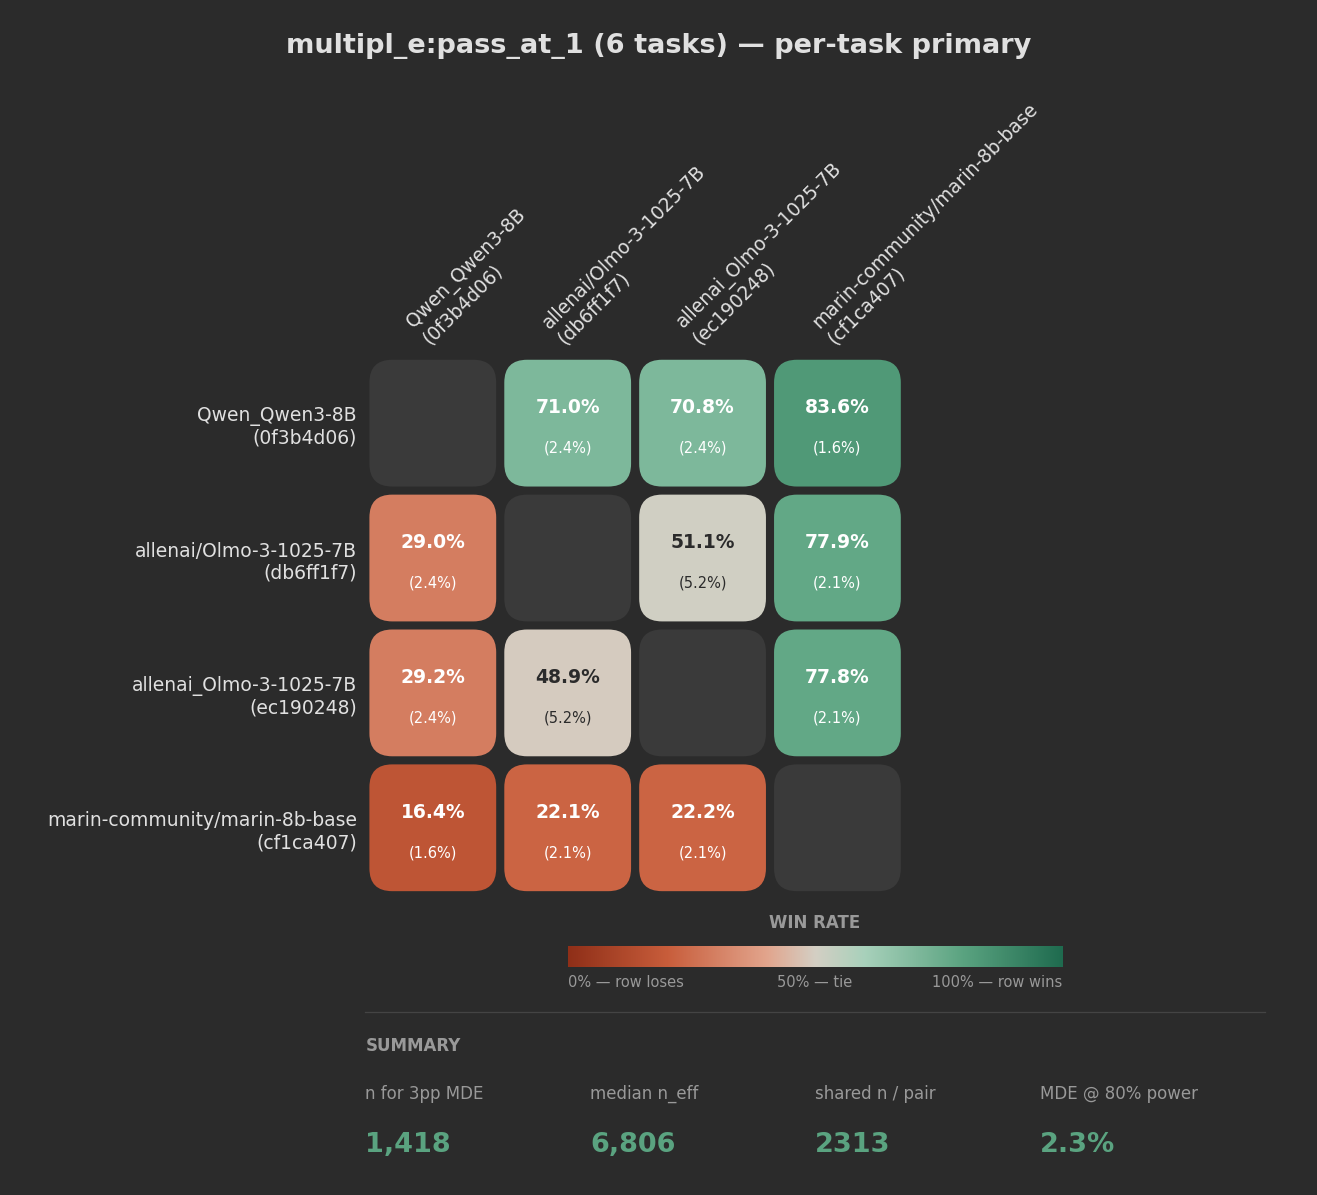
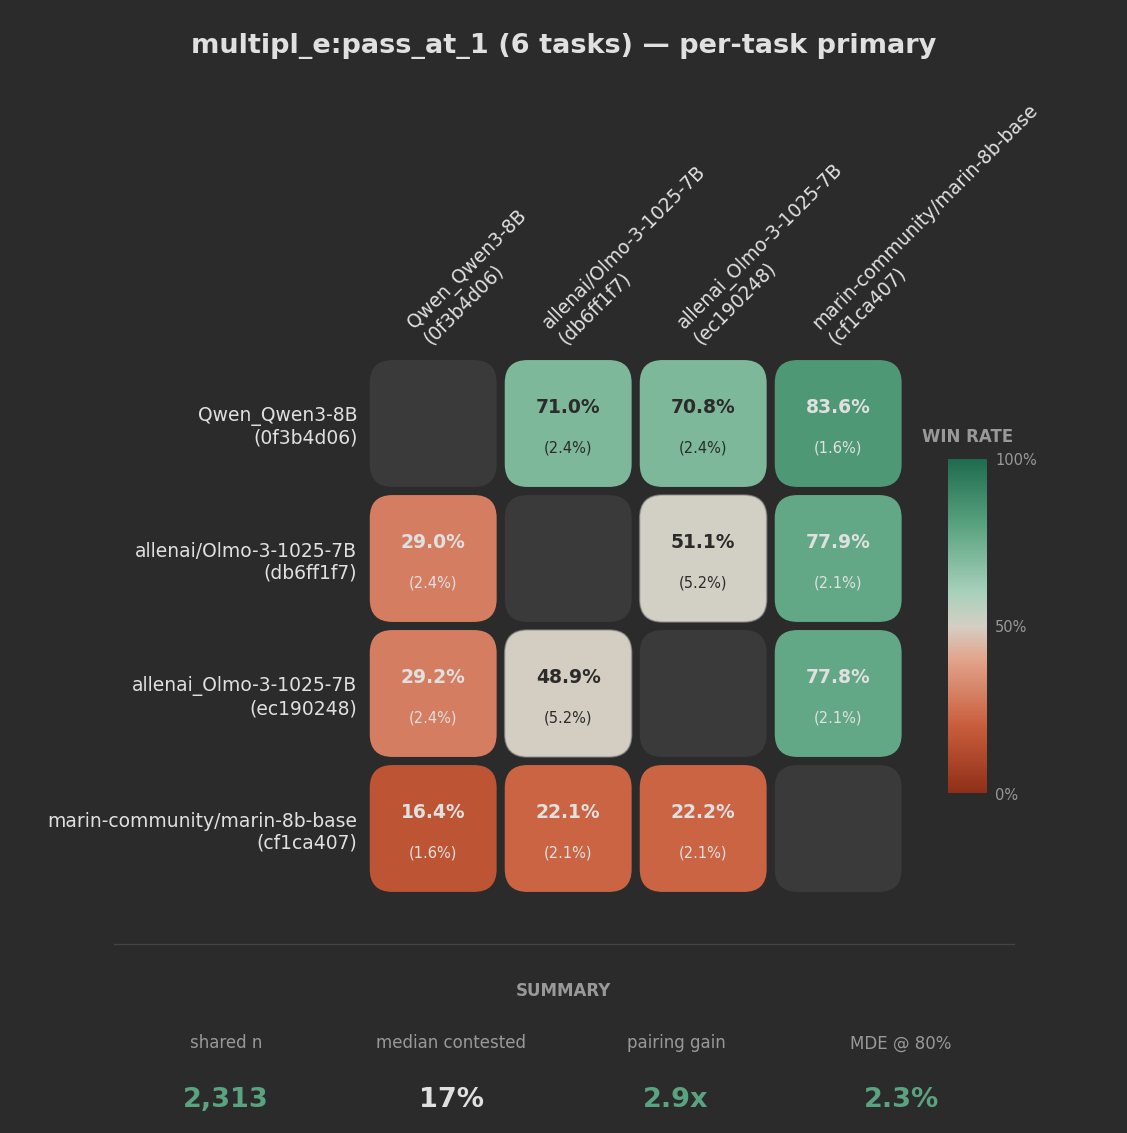
Rework summary stats and examples

diff --git a/src/olmo_eval/analysis/pairwise_plot.py b/src/olmo_eval/analysis/pairwise_plot.py
@@ -10,6 +10,7 @@ import numpy as np
 from olmo_eval.analysis.pairwise import PairwiseResult, get_se, get_win_rate
 
 if TYPE_CHECKING:
+    from matplotlib.colors import ColorType
     from matplotlib.figure import Figure
 
 _BG = "#2b2b2b"
@@ -34,7 +35,7 @@ _CMAP_STOPS: list[tuple[float, str]] = [
     (1.00, "#1f6b4f"),
 ]
 
-_FOOTER_HEIGHT = 1.55
+_FOOTER_HEIGHT = 1.58
 _RIGHT_PAD = 0.35
 _LEFT_PAD = 0.35
 _TITLE_PAD = 0.55
@@ -46,6 +47,9 @@ _LEGEND_LABEL_GAP = 0.08
 _LEGEND_LABEL_WIDTH = 0.45
 _LEGEND_HEIGHT_FRACTION = 0.62
 _LEGEND_MIN_HEIGHT = 1.20
+_NONSIG_BLEND = 0.55
+_NONSIG_BORDER_WIDTH = 0.8
+_SIGNIFICANCE_Z = 2.0
 
 
 def build_win_rate_matrix(result: PairwiseResult) -> np.ndarray:
@@ -168,6 +172,25 @@ def plot_pairwise_matrix(
         inset = gap / 2
         side = 1.0 - gap
         rounding = side * 0.18
+        neutral_rgba = mcolors.to_rgba(cmap(norm(0.5)))
+        nonsig_edge_rgba = mcolors.to_rgba(_TEXT_DIM, alpha=0.55)
+
+        def _is_nonsignificant(win_rate: float, se: float) -> bool:
+            return abs(win_rate - 0.5) <= _SIGNIFICANCE_Z * se
+
+        def _blend_with_neutral(color: ColorType) -> tuple[float, float, float, float]:
+            r, g, b, a = mcolors.to_rgba(color)
+            return (
+                (1.0 - _NONSIG_BLEND) * r + _NONSIG_BLEND * neutral_rgba[0],
+                (1.0 - _NONSIG_BLEND) * g + _NONSIG_BLEND * neutral_rgba[1],
+                (1.0 - _NONSIG_BLEND) * b + _NONSIG_BLEND * neutral_rgba[2],
+                (1.0 - _NONSIG_BLEND) * a + _NONSIG_BLEND * neutral_rgba[3],
+            )
+
+        def _text_color_for_fill(fill_color: ColorType) -> str:
+            r, g, b = mcolors.to_rgb(fill_color)
+            luminance = 0.2126 * r + 0.7152 * g + 0.0722 * b
+            return _BG if luminance >= 0.66 else _TEXT_LIGHT
 
         for i in range(n):
             for j in range(n):
@@ -175,8 +198,18 @@ def plot_pairwise_matrix(
                 if i == j or np.isnan(val):
                     color = _DIAGONAL
                     annotate = False
+                    se_val = np.nan
+                    edgecolor = "none"
+                    linewidth = 0.0
                 else:
+                    se_val = se_matrix[i, j]
                     color = cmap(norm(val))
+                    edgecolor = "none"
+                    linewidth = 0.0
+                    if not np.isnan(se_val) and _is_nonsignificant(val, se_val):
+                        color = _blend_with_neutral(color)
+                        edgecolor = nonsig_edge_rgba
+                        linewidth = _NONSIG_BORDER_WIDTH
                     annotate = True
 
                 ax.add_patch(
@@ -186,15 +219,14 @@ def plot_pairwise_matrix(
                         side,
                         boxstyle=f"round,pad=0,rounding_size={rounding}",
                         facecolor=color,
-                        edgecolor="none",
-                        linewidth=0,
+                        edgecolor=edgecolor,
+                        linewidth=linewidth,
                         zorder=2,
                     )
                 )
 
                 if annotate:
-                    text_color = "#ffffff" if abs(val - 0.5) > 0.14 else _BG
-                    se_val = se_matrix[i, j]
+                    text_color = _text_color_for_fill(color)
                     se_font = max(7, int(annot_font * 0.80))
                     ax.text(
                         j + 0.5,
@@ -250,10 +282,10 @@ def plot_pairwise_matrix(
         def _y(inches_from_bottom: float) -> float:
             return inches_from_bottom / fig_h
 
-        upper_divider_in = 1.24
-        summary_label_in = 0.94
+        upper_divider_in = 1.26
+        summary_label_in = 0.95
         stat_head_in = 0.60
-        stat_value_in = 0.24
+        stat_value_in = 0.22
 
         legend_height_in = min(
             max(heatmap_in * _LEGEND_HEIGHT_FRACTION, _LEGEND_MIN_HEIGHT),
@@ -304,10 +336,7 @@ def plot_pairwise_matrix(
             va="center",
         )
 
-        from olmo_eval.analysis.eval_power import (
-            minimum_detectable_effect,
-            required_sample_size,
-        )
+        from olmo_eval.analysis.eval_power import minimum_detectable_effect
 
         # Use the median pair variance as a single matrix-wide summary term.
         pair_vars = sorted(p.var_paired_diff for p in result.pairs)
@@ -322,14 +351,6 @@ def plot_pairwise_matrix(
             mde = None
             mde_str = "—"
 
-        n_for_3pp: int | None
-        if median_var > 0:
-            n_for_3pp = required_sample_size(mde=0.03, omega2=median_var)
-            n_for_3pp_str = f"{n_for_3pp:,}"
-        else:
-            n_for_3pp = None
-            n_for_3pp_str = "—"
-
         # n_eff = n_shared * (sigma_A^2 + sigma_B^2) / Var(d)
         n_eff_values: list[int] = []
         for p in result.pairs:
@@ -337,7 +358,21 @@ def plot_pairwise_matrix(
                 n_eff_values.append(round(shared_n * p.var_marginal_sum / p.var_paired_diff))
         n_eff_values.sort()
         median_n_eff: int | None = n_eff_values[len(n_eff_values) // 2] if n_eff_values else None
-        median_n_eff_str = f"{median_n_eff:,}" if median_n_eff is not None else "—"
+        pairing_gain: float | None = (
+            median_n_eff / shared_n if median_n_eff is not None and shared_n > 0 else None
+        )
+        pairing_gain_str = f"{pairing_gain:.1f}x" if pairing_gain is not None else "—"
+
+        contested_values = sorted(p.wins_a + p.wins_b for p in result.pairs)
+        median_contested: int | None = (
+            contested_values[len(contested_values) // 2] if contested_values else None
+        )
+        median_contested_rate: float | None = (
+            median_contested / shared_n if median_contested is not None and shared_n > 0 else None
+        )
+        median_contested_str = (
+            f"{median_contested_rate:.0%}" if median_contested_rate is not None else "—"
+        )
 
         def _tier_mde(v: float | None) -> str:
             if v is None:
@@ -355,20 +390,9 @@ def plot_pairwise_matrix(
                 return _TIER_OK
             return _TIER_BAD
 
-        def _tier_n_for_target(required: int | None, baseline: int) -> str:
-            if required is None or baseline <= 0:
+        def _tier_pairing_gain(ratio: float | None) -> str:
+            if ratio is None:
                 return _TIER_NEUTRAL
-            ratio = required / baseline
-            if ratio <= 1.0:
-                return _TIER_GOOD
-            if ratio <= 3.0:
-                return _TIER_OK
-            return _TIER_BAD
-
-        def _tier_n_eff(eff: int | None, baseline: int) -> str:
-            if eff is None or baseline <= 0:
-                return _TIER_NEUTRAL
-            ratio = eff / baseline
             if ratio >= 2.0:
                 return _TIER_GOOD
             if ratio >= 1.2:
@@ -376,10 +400,10 @@ def plot_pairwise_matrix(
             return _TIER_BAD
 
         stats: list[tuple[str, str, str]] = [
-            ("n for 3pp MDE", n_for_3pp_str, _tier_n_for_target(n_for_3pp, shared_n)),
-            ("median n_eff", median_n_eff_str, _tier_n_eff(median_n_eff, shared_n)),
-            ("shared n / pair", str(shared_n), _tier_shared_n(shared_n)),
-            ("MDE @ 80% power", mde_str, _tier_mde(mde)),
+            ("shared n", f"{shared_n:,}", _tier_shared_n(shared_n)),
+            ("median contested", median_contested_str, _TEXT_LIGHT),
+            ("pairing gain", pairing_gain_str, _tier_pairing_gain(pairing_gain)),
+            ("MDE @ 80%", mde_str, _tier_mde(mde)),
         ]
         col_w = footer_width_frac / len(stats)
         for idx, (heading, value, value_color) in enumerate(stats):

diff --git a/src/olmo_eval/analysis/README.md b/src/olmo_eval/analysis/README.md
@@ -55,15 +55,35 @@ low-tie pair, even though the headline number looks more decisive.
 The footer shows matrix-wide validity stats. From the MultiPL-E example:
 
 ```
-n for 3pp MDE    median n_eff    shared n / pair    MDE @ 80% power
-    1,418          6,806              2,313              2.3%
+shared n    median contested    pairing gain    MDE @ 80%
+ 2,313           17%              2.9x            2.3%
 ```
 
-Every tier is green here — the matrix is in "read it head-on" territory.
+Even though only **17%** of the shared questions are contested, the matrix still
+lands in "read it head-on" territory because pairing is buying a lot of
+precision and the matrix-wide MDE is small.
 
-### `shared n / pair`
+### `shared n`
 Number of instances every model answered. Your raw sample size for every pair.
 MultiPL-E pooled across 6 languages gives 2,313 questions per pair.
+
+### `median contested`
+Median fraction of shared questions that actually turn into head-to-head signal
+after ties are removed:
+
+- For each pair, `contested = wins_a + wins_b`.
+- The footer reports the median `contested / shared n` across pairs.
+- **17%** here means most shared questions are ties, so the per-cell SE is
+  driven by a much smaller count than `shared n`.
+
+### `pairing gain`
+Median precision lift from the paired design:
+
+- `pairing gain = median(n_eff / shared n)`.
+- `n_eff = n × (σ_A² + σ_B²) / Var(d)` per pair; the footer compresses this to
+  a single ratio.
+- **2.9×** means the paired design is worth almost three times as many
+  independent samples as an unpaired comparison would be.
 
 ### `MDE @ 80% power`
 Minimum Detectable Effect (MDE) — the smallest true win-rate gap the matrix
@@ -76,28 +96,6 @@ given its `shared n` and the **median** per-pair paired-difference variance
   this matrix has `|win_rate − 50%| ≫ 2.3%`, so every comparison is
   trustworthy.
 - Tiers: good ≤ 3pp, ok ≤ 10pp, bad > 10pp.
-
-### `n for 3pp MDE`
-How many shared instances you'd need to pull the MDE down to 3pp.
-
-- **1,418** is **below** the current `shared n` of 2,313, so the matrix is
-  already past the 3pp-resolution threshold — the MDE has headroom.
-- Tiers relative to current `shared n`: good ≤ 1×, ok ≤ 3×, bad > 3×.
-
-### `median n_eff`
-Effective sample size (n_eff) under the paired design — how many independent
-samples the paired comparison is worth after accounting for question-level
-correlation between models.
-
-- `n_eff = n × (σ_A² + σ_B²) / Var(d)` per pair; the footer shows the median
-  across pairs.
-- `n_eff > shared n` means models disagree on which questions are hard, so
-  pairing is buying precision. `n_eff ≈ shared n` means pairing adds little.
-- **6,806 vs 2,313** on MultiPL-E: pairing is buying a 2.9× precision gain —
-  models disagree meaningfully on per-question difficulty across languages,
-  so the paired design extracts a lot more signal than an unpaired comparison
-  would.
-- Tiers: good ≥ 2× shared n, ok ≥ 1.2×, bad < 1.2×.
 
 ## Why pool up to the parent suite?
 
@@ -116,8 +114,8 @@ olmo-eval results pairwise \
 ![Pairwise heatmap for the HumanEval sub-suite](pairwise_heatmap_example.png)
 
 ```
-n for 3pp MDE    median n_eff    shared n / pair    MDE @ 80% power
-    2,376          1,061              955               4.7%
+shared n    median contested    pairing gain    MDE @ 80%
+   955           46%              1.1x            4.7%
 ```
 
 The sub-suite is a strict subset of the parent's instances, so its stats
@@ -125,10 +123,10 @@ collapse compared to the top-level suite:
 
 | Footer stat      | Sub-suite (HumanEval family) | Parent suite (MultiPL-E) |
 | ---------------- | ---------------------------: | -----------------------: |
-| shared n / pair  |                          955 |                    2,313 |
+| shared n         |                          955 |                    2,313 |
+| median contested |                          46% |                      17% |
+| pairing gain     |                         1.1× |                     2.9× |
 | MDE @ 80% power  |                    4.7% (🟡) |                2.3% (🟢) |
-| median n_eff     |                 1,061 (🔴)   |               6,806 (🟢) |
-| n for 3pp MDE    |      2,376 (🟡, above n)     | 1,418 (🟢, within reach) |
 
 **Two things to notice:**
 
@@ -136,18 +134,18 @@ collapse compared to the top-level suite:
    decisive cells in its matrix (16.8%, 83.2%, 95.4%, etc.) are still
    trustworthy. But a hypothetical 3pp gap between two similar models would
    vanish in the noise.
-2. **`n_eff` is *below* `shared n`.** `1,061 < 955` is fine but the ratio
-   is close to 1 — the paired design is not buying meaningful precision at
-   this level. That happens when models disagree on per-question difficulty
-   across the sub-suite's tasks, so `Var(d)` is close to `σ_A² + σ_B²`.
-   Scoping up to the parent suite fixes this dramatically: `n_eff / shared n`
-   jumps from ≈1.1× (sub-suite) to ≈2.9× (parent suite) because the extra
-   tasks give the paired structure something to work with.
+2. **The contested rate goes up but the pairing gain collapses.** The
+   HumanEval-family slice has more head-to-head signal per shared question
+   (**46%** contested vs **17%** in the parent suite), but the paired design is
+   only worth **1.1×** extra precision instead of **2.9×**. Scoping up to the
+   parent suite recovers that covariance structure across tasks, so the
+   matrix-wide MDE drops sharply even though the contested fraction is lower.
 
 **Takeaway.** The finer-grained the slice, the noisier the matrix. Prefer
 the highest-level suite that still measures the capability you care about.
 The parent suite is always at least as informative as any of its children
-(same model comparisons, strictly more instances, usually better `n_eff`).
+(same model comparisons, strictly more instances, usually better pairing gain
+and lower MDE).
 
 **How to explore the hierarchy:**
 
@@ -158,7 +156,7 @@ olmo-eval results group <your-group>       # models + tasks + suites
 
 **What NOT to pool.** Resist the urge to pool tasks that measure different
 capabilities (e.g. math + dialogue). That inflates `shared n` without
-improving signal — and can actually hurt `n_eff` by driving `Var(d)` up.
+improving signal — and can actually hurt pairing gain by driving `Var(d)` up.
 
 ## How cell SE and footer stats differ
 
@@ -170,9 +168,11 @@ improving signal — and can actually hurt `n_eff` by driving `Var(d)` up.
   "pooled" so a single outlier pair (e.g. one with near-zero variance)
   can't distort the summary. It tells you "how precise is a typical
   comparison in this matrix?"
-- A pair with many ties has a wide cell SE even if the footer MDE looks
-  decent — because that pair's contested `n` is small. Always check the
-  cell SE before quoting the gap.
+- **Median contested** tells you how much of the shared sample usually survives
+  the tie filter. Low contested rates are a warning sign for wide cell SEs.
+- **Pairing gain** tells you how much the paired design is helping overall. A
+  matrix can have a healthy contested rate but still gain little from pairing
+  if the models rise and fall together on the same questions.
 
 ## Rules of thumb
 
@@ -182,10 +182,12 @@ improving signal — and can actually hurt `n_eff` by driving `Var(d)` up.
    but not conclusive; lean on the per-cell SE.
 3. **MDE green** (≤ 3pp): you can read the matrix head-on; most cells are
    trustworthy.
-4. **Scaling up:** halving the MDE requires ~4× more instances. If the
-   number in `n for 3pp MDE` is too big to run per-task, try `--suite` to
-   pool instances across a related task group.
-5. **Ignore cell differences smaller than `2·sqrt(SE_a² + SE_b²)`** when
+4. **Low contested rate means wide cell SE.** If the footer says `median
+   contested` is small, expect many cells to be tie-dominated even when
+   `shared n` looks large.
+5. **Pairing gain near 1× means pairing adds little.** In that regime, you are
+   mostly living off raw sample size; pooling to a parent suite often helps.
+6. **Ignore cell differences smaller than `2·sqrt(SE_a² + SE_b²)`** when
    comparing two non-diagonal cells in the matrix.
 
 ## Glossary
@@ -217,6 +219,9 @@ improving signal — and can actually hurt `n_eff` by driving `Var(d)` up.
   will come out significant at the given α and power. Matrix-wide MDE uses
   the *median* of per-pair paired-difference variances as a representative
   `ω²` (robust to outlier pairs), plugged in at the full `shared n`.
+- **Median contested** — the median of `(wins_a + wins_b) / shared n` across
+  pairs. Tells you how much of the shared sample usually survives after ties
+  are removed.
 - **Paired comparison** — both models answer the same shared questions, so
   per-question luck cancels in `d_i = score_a_i − score_b_i`. Shrinks the
   variance whenever models agree on what's easy vs hard.
@@ -231,9 +236,8 @@ improving signal — and can actually hurt `n_eff` by driving `Var(d)` up.
   number of independent samples the paired comparison is worth. Higher than
   `shared n` means pairing is buying precision; close to `shared n` means
   models disagree on which questions are hard.
-- **Required n (n for target MDE)** — from `MDE ∝ 1/√n`, the instance count
-  needed to hit a desired MDE at fixed α and power. The footer reports the
-  number for a 3pp target.
+- **Pairing gain** — `median(n_eff / shared n)` across pairs. A compact way to
+  express how much precision the paired design is buying overall.
 - **pp (percentage point)** — absolute difference between two percentages.
   A move from 52% to 55% is a 3pp gap, not a 3% gap.
 - **z-test** — two-sample hypothesis test that uses the normal approximation